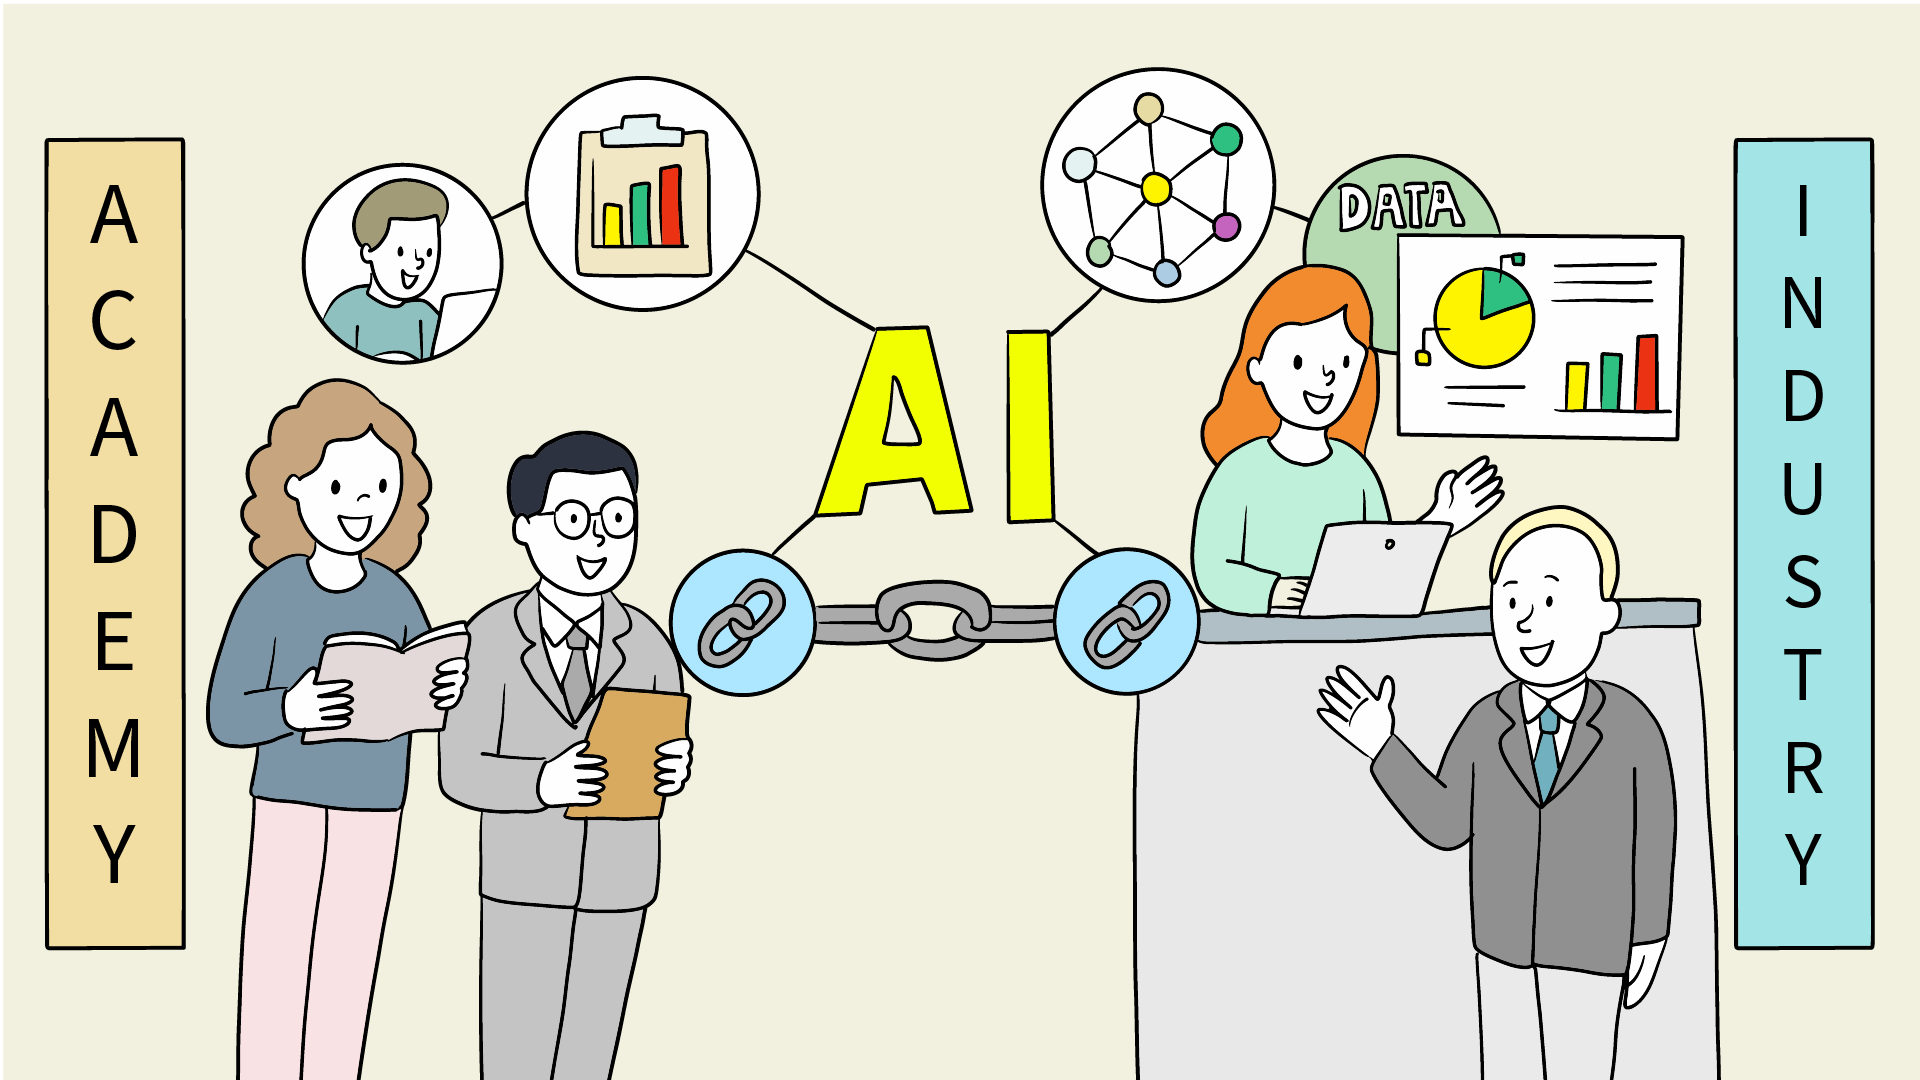
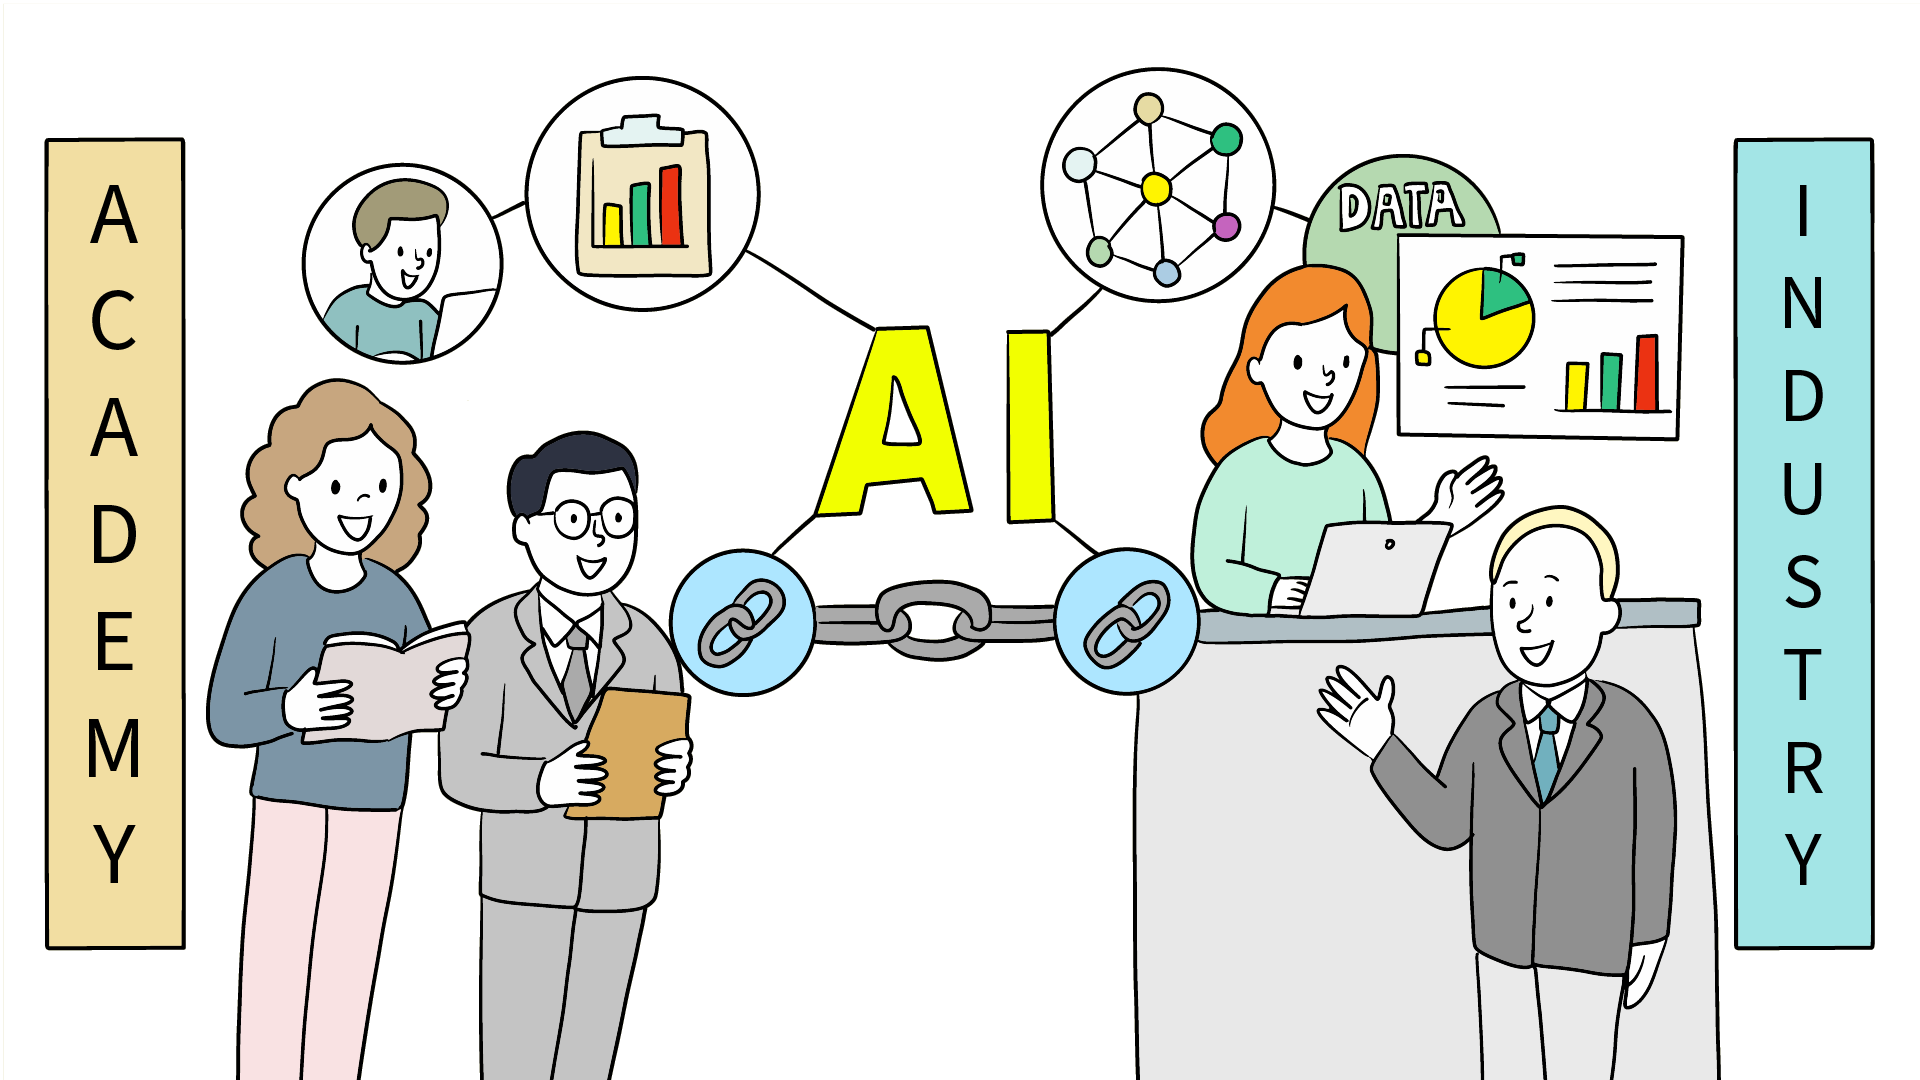
refactor: add transparency to news images

diff --git a/page/blog_news.html b/page/blog_news.html
@@ -44,6 +44,7 @@
       .news-img {
         border-radius: 16px;
         border: solid var(--news-border);
+        background: var(--background);
       }
 
       @media (min-width: 992px) {

diff --git a/css/index.css b/css/index.css
@@ -27,6 +27,7 @@ hr {
 .news-img {
   border-radius: 16px;
   border: solid var(--news-border);
+  background: var(--background);
 }
 
 @media (min-width: 992px) {

diff --git a/content/news/2025-08-25.md b/content/news/2025-08-25.md
@@ -1,24 +1,25 @@
 # Bilateral AI Cluster of Excellence at SEMANTiCS 2025
+
 ##### August 25, 2025 by SEMANTiCS
 
-The [Bilateral AI](https://www.bilateral-ai.net/home) Austrian Science Fund (FWF) Cluster of Excellence is conducting fundamental research into the combination of symbolic and sub-symbolic artificial intelligence (AI) in a manner that lays the foundations for Broad AI with greater problem solving capabilities and generalisability ability. 
-Towards this end, [BILAIs research agenda](https://www.bilateral-ai.net/research/research-modules) is organised around eight core research modules that place specific emphasis on graph-based structures, context, knowledge & learning, reasoning, causality, explainable AI, ethical AI systems, and demonstration & benchmarking. 
+The [Bilateral AI](https://www.bilateral-ai.net/home) Austrian Science Fund (FWF) Cluster of Excellence is conducting fundamental research into the combination of symbolic and sub-symbolic artificial intelligence (AI) in a manner that lays the foundations for Broad AI with greater problem solving capabilities and generalisability ability.
+Towards this end, [BILAIs research agenda](https://www.bilateral-ai.net/research/research-modules) is organised around eight core research modules that place specific emphasis on graph-based structures, context, knowledge & learning, reasoning, causality, explainable AI, ethical AI systems, and demonstration & benchmarking.
 
-<img src="../img/news/2025_08_25.jpg" style="" width="100%" height="auto" alt="">
+<img src="../img/news/2025_08_25.png" style="" width="100%" height="auto" alt="">
 
 Graphs in machine learning and symbolic AI are inherently robust as discrete structures and can be readily adapted to new situations making them particularly suitable in a Broad AI context. Consequently, Knowledge Graphs and graph-based models, based on abstractions of real world entities, are prevalent across the various BILAI research models.
 
-[Accorrding to Sahar Vahdati](https://2025-eu.semantics.cc/page/news?page=2025-04-7), the SEMANTiCS 2025 Conference Chair, SEMANTiCS is ***“where deep learning meets deep meaning, where symbolic meets neural, where actionable intelligence begins with structured knowledge”*** . This convergence is at the core of BILAI, and is actively driving our research agenda. Thus it is not surprising that this years SEMANTiCS conference will showcase various BILAI activities: 
+[Accorrding to Sahar Vahdati](https://2025-eu.semantics.cc/page/news?page=2025-04-7), the SEMANTiCS 2025 Conference Chair, SEMANTiCS is **_“where deep learning meets deep meaning, where symbolic meets neural, where actionable intelligence begins with structured knowledge”_** . This convergence is at the core of BILAI, and is actively driving our research agenda. Thus it is not surprising that this years SEMANTiCS conference will showcase various BILAI activities:
 
-- [Georg Gottlob](https://informatics.tuwien.ac.at/people/georg-gottlob) (BILAI Key Researcher, TU Wien) will give a keynote entitled [***“Psychoanalysis (and Therapy) of LLMs with Special Regard to their Use for Knowledge Graph Construction and Curation”***](https://2025-eu.semantics.cc/page/speakers?page=1B54Z5MM4JztjGL7j9lJMc8NMMbL7RjFo). Georg and his team are exploring the potential of large language models as a means to automatically verify and enhance relational databases and Knowledge Graphs, while mitigating veracity issues caused by missing, incorrect, or biased training data. 
+- [Georg Gottlob](https://informatics.tuwien.ac.at/people/georg-gottlob) (BILAI Key Researcher, TU Wien) will give a keynote entitled [**_“Psychoanalysis (and Therapy) of LLMs with Special Regard to their Use for Knowledge Graph Construction and Curation”_**](https://2025-eu.semantics.cc/page/speakers?page=1B54Z5MM4JztjGL7j9lJMc8NMMbL7RjFo). Georg and his team are exploring the potential of large language models as a means to automatically verify and enhance relational databases and Knowledge Graphs, while mitigating veracity issues caused by missing, incorrect, or biased training data.
 
-- [Emanuel Sallinger](https://informatics.tuwien.ac.at/people/emanuel-sallinger) (BILAI Key Researcher, TU Wien) and Luigi Bellomarini (Bank of Italy) will present their work on “<u>From Strings to Things and Back: Putting Logic-based Reasoning into Action in a Central Bank</u>”. Emanuel recounts that “***together with our BILAI industrial research partner, the Central Bank of Italy, we showcase Bilateral AI in practice with putting both ‘strings’ technology (MachineLearning and Large Language Models) and ‘things’ technology (KnowledgeGraphs and Logic) together in widely deployed real-world applications***". Furthermore, the talk will discuss the evolving role of logic-based reasoning systems based on Knowledge Graphs and their efforts to balance data-driven, deterministic, and explainable nature of deductive reasoning with the flexibility of modern natural language processing.
+- [Emanuel Sallinger](https://informatics.tuwien.ac.at/people/emanuel-sallinger) (BILAI Key Researcher, TU Wien) and Luigi Bellomarini (Bank of Italy) will present their work on “<u>From Strings to Things and Back: Putting Logic-based Reasoning into Action in a Central Bank</u>”. Emanuel recounts that “**_together with our BILAI industrial research partner, the Central Bank of Italy, we showcase Bilateral AI in practice with putting both ‘strings’ technology (MachineLearning and Large Language Models) and ‘things’ technology (KnowledgeGraphs and Logic) together in widely deployed real-world applications_**". Furthermore, the talk will discuss the evolving role of logic-based reasoning systems based on Knowledge Graphs and their efforts to balance data-driven, deterministic, and explainable nature of deductive reasoning with the flexibility of modern natural language processing.
 
-- [Marta Sabou](https://www.wu.ac.at/en/dpkm/team/sabou-marta) (BILAI Key Researcher, WU Wien) together with her [Leveraging Semantics for Transparency in Industrial Systems (SENTIS) workshop](https://semsys.ai.wu.ac.at/sentis2025/) co-organisers will bring together researchers, industry professionals, and domain experts who specialise in semantic web technologies for automation systems. The overarching goal of the workshop is to facilitate transparency in both automation systems and their AI models, while promoting explainable solutions for industry applications. Marta highlights the fact that “***the SENTIS workshop, which is co-organised with colleagues from Siemens, focuses on the domain of industrial systems such as smart grids and buildings and investigates how AI technologies can render these systems more transparent and user friendly. As such, it provides interesting use cases for BILAI***”.
+- [Marta Sabou](https://www.wu.ac.at/en/dpkm/team/sabou-marta) (BILAI Key Researcher, WU Wien) together with her [Leveraging Semantics for Transparency in Industrial Systems (SENTIS) workshop](https://semsys.ai.wu.ac.at/sentis2025/) co-organisers will bring together researchers, industry professionals, and domain experts who specialise in semantic web technologies for automation systems. The overarching goal of the workshop is to facilitate transparency in both automation systems and their AI models, while promoting explainable solutions for industry applications. Marta highlights the fact that “**_the SENTIS workshop, which is co-organised with colleagues from Siemens, focuses on the domain of industrial systems such as smart grids and buildings and investigates how AI technologies can render these systems more transparent and user friendly. As such, it provides interesting use cases for BILAI_**”.
 
-- [Fajar J. Ekaputra](https://www.wu.ac.at/en/dpkm/team/fajar-juang-ekaputra) (BILAI Assistant Professor, WU Wien) is one of the organisers of the “[Knowledge Graphs and Neurosymbolic AI (KG-NeSy)](https://sites.google.com/view/kgnesy2025)” workshop that aims to gain a better understanding of how Knowledge Graphs and Neurosymbolic AI influence and benefit each other. The workshop is organised around three overarching topics Neurosymbolic AI for Knowledge Engineering; Knowledge Graphs and Neurosymbolic approaches for Robust; Trustworthy and Interpretable AI; and Application of Neurosymbolic AI and Knowledge Graphs. When asked about the link between KG-NeSy and BILAI Fajar explains that “***the workshop is strongly aligned with BILAI’s mission of investigating bilateral (i.e., neurosymbolic) AI technologies and its applications with a focus on the role of Knowledge Graphs in these systems***".
+- [Fajar J. Ekaputra](https://www.wu.ac.at/en/dpkm/team/fajar-juang-ekaputra) (BILAI Assistant Professor, WU Wien) is one of the organisers of the “[Knowledge Graphs and Neurosymbolic AI (KG-NeSy)](https://sites.google.com/view/kgnesy2025)” workshop that aims to gain a better understanding of how Knowledge Graphs and Neurosymbolic AI influence and benefit each other. The workshop is organised around three overarching topics Neurosymbolic AI for Knowledge Engineering; Knowledge Graphs and Neurosymbolic approaches for Robust; Trustworthy and Interpretable AI; and Application of Neurosymbolic AI and Knowledge Graphs. When asked about the link between KG-NeSy and BILAI Fajar explains that “**_the workshop is strongly aligned with BILAI’s mission of investigating bilateral (i.e., neurosymbolic) AI technologies and its applications with a focus on the role of Knowledge Graphs in these systems_**".
 
-- [Daniil Dobriy](https://www.wu.ac.at/en/dpkm/team/dobriy) (BILAI PhD Student, WU Wien) is a co-organiser of the [International workshop on Symbolic and Generative AI for Science (SymGenAI4Sci)](https://sga4s.semantic.foundation/), which explores the transformative potential of generative AI in scientific research. According to Daniil “***Science is inherently generative: it involves creating hypotheses, designing experiments, interpreting data, and communicating results. Generative AI has the potential to augment these processes by automating routine tasks, enabling hypothesis generation, synthesizing complex information, and uncovering insights from vast datasets***”. Open challenges include dealing with data sparsity, noisiness, and specificity, as well as developing models that understand and adhere to rigorous scientific principles and constraints. 
+- [Daniil Dobriy](https://www.wu.ac.at/en/dpkm/team/dobriy) (BILAI PhD Student, WU Wien) is a co-organiser of the [International workshop on Symbolic and Generative AI for Science (SymGenAI4Sci)](https://sga4s.semantic.foundation/), which explores the transformative potential of generative AI in scientific research. According to Daniil “**_Science is inherently generative: it involves creating hypotheses, designing experiments, interpreting data, and communicating results. Generative AI has the potential to augment these processes by automating routine tasks, enabling hypothesis generation, synthesizing complex information, and uncovering insights from vast datasets_**”. Open challenges include dealing with data sparsity, noisiness, and specificity, as well as developing models that understand and adhere to rigorous scientific principles and constraints.
 
 I’m looking forward to hearing about cutting-edge advancements in Knowledge Graphs and AI and discussing foundational aspects of Broad AI with SEMANTIC 2025 participants from academia, industry, and public sector organizations.
 
